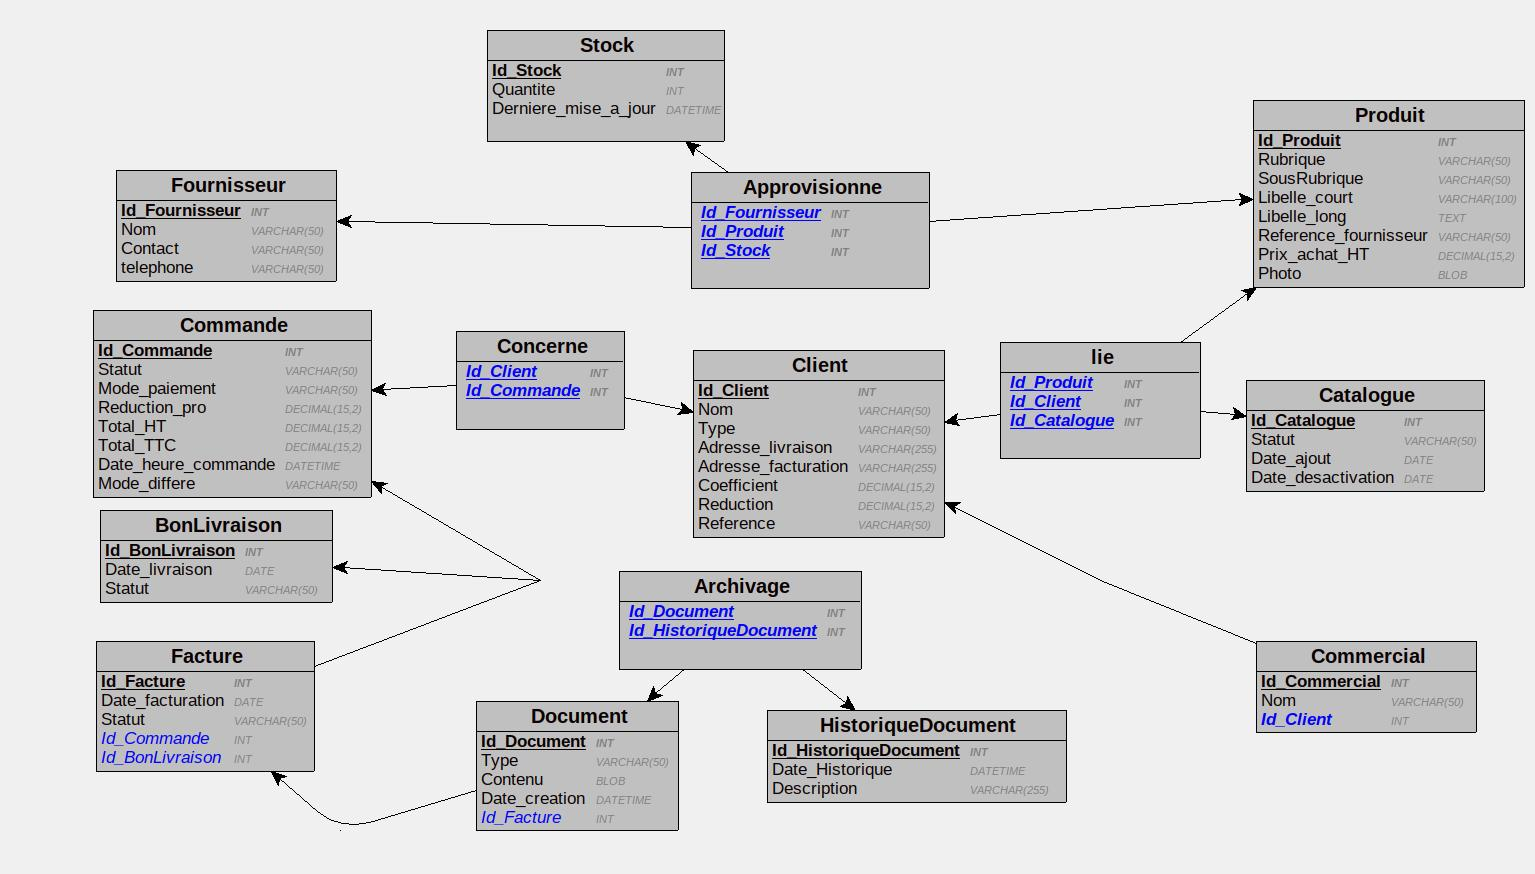
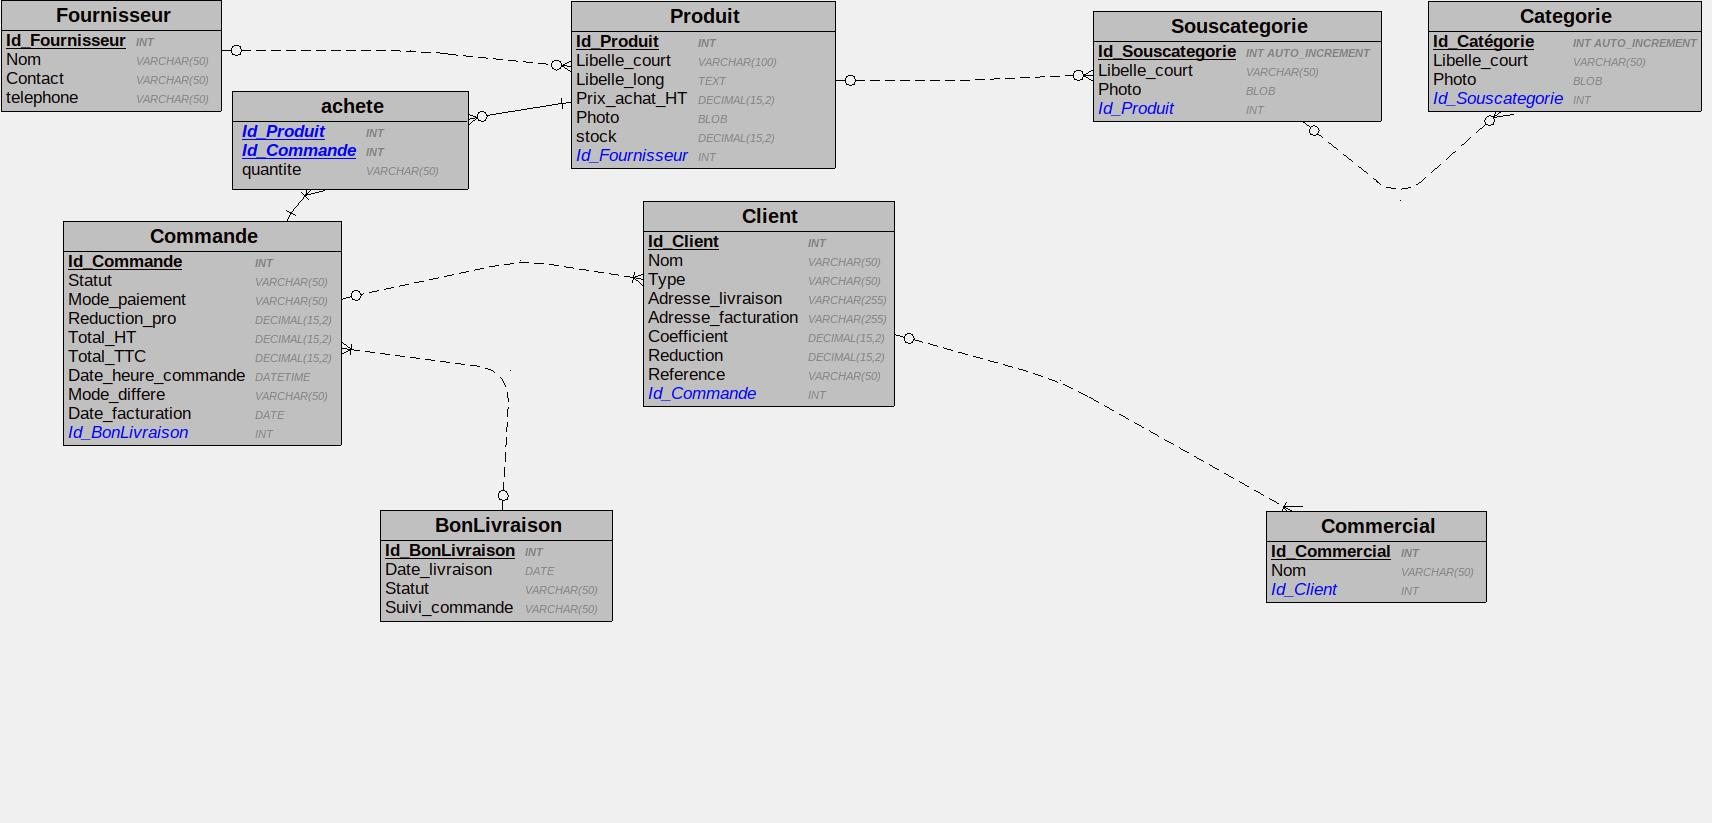
.

diff --git a/FilRouge.md b/FilRouge.md
@@ -1,132 +1,71 @@
 ## Dictionnaire de données
 
-### Table `Fournisseur` :
-- **Id_Fournisseur** : INT (Clé primaire)
-- **Nom** : VARCHAR(50) - Nom du fournisseur
-- **Contact** : VARCHAR(50) - Contact du fournisseur
-- **telephone** : VARCHAR(50) - Numéro de téléphone du fournisseur
+### Table Fournisseur
+- `Id_Fournisseur` (INT) : Identifiant unique du fournisseur (clé primaire).
+- `Nom` (VARCHAR(50)) : Nom du fournisseur.
+- `Contact` (VARCHAR(50)) : Nom du contact chez le fournisseur.
+- `Telephone` (VARCHAR(50)) : Numéro de téléphone du fournisseur.
 
-(Description: Stocke les informations sur les fournisseurs.)
+### Table Produit
+- `Id_Produit` (INT) : Identifiant unique du produit (clé primaire).
+- `Libelle_court` (VARCHAR(100)) : Libellé court du produit.
+- `Libelle_long` (TEXT) : Description détaillée du produit.
+- `Prix_achat_HT` (DECIMAL(15,2)) : Prix d'achat hors taxes du produit.
+- `Photo` (BLOB) : Image représentant le produit.
+- `Stock` (DECIMAL(15,2)) : Quantité en stock du produit.
+- `Id_Fournisseur` (INT) : Identifiant du fournisseur associé (clé étrangère vers la table Fournisseur).
 
-### Table `Produit` :
-- **Id_Produit** : INT (Clé primaire)
-- **Rubrique** : VARCHAR(50) - Rubrique du produit
-- **SousRubrique** : VARCHAR(50) - Sous-rubrique du produit
-- **Libelle_court** : VARCHAR(100) - Libellé court du produit
-- **Libelle_long** : TEXT - Libellé long du produit
-- **Reference_fournisseur** : VARCHAR(50) - Référence du fournisseur pour le produit
-- **Prix_achat_HT** : DECIMAL(15,2) - Prix d'achat hors taxes du produit
-- **Photo** : BLOB - Image du produit
+### Table BonLivraison
+- `Id_BonLivraison` (INT) : Identifiant unique du bon de livraison (clé primaire).
+- `Date_livraison` (DATE) : Date de livraison du bon.
+- `Statut` (VARCHAR(50)) : Statut du bon de livraison.
+- `Suivi_commande` (VARCHAR(50)) : Informations de suivi de la commande associée.
 
-(Description: Stocke les informations sur les produits vendus.)
+### Table Souscategorie
+- `Id_Souscategorie` (INT) : Identifiant unique de la sous-catégorie (clé primaire).
+- `Libelle_court` (VARCHAR(50)) : Libellé court de la sous-catégorie.
+- `Photo` (BLOB) : Image représentant la sous-catégorie.
+- `Id_Produit` (INT) : Identifiant du produit associé (clé étrangère vers la table Produit).
 
-### Table `Client` :
-- **Id_Client** : INT (Clé primaire)
-- **Nom** : VARCHAR(50) - Nom du client
-- **Type** : VARCHAR(50) - Type de client
-- **Adresse_livraison** : VARCHAR(255) - Adresse de livraison du client
-- **Adresse_facturation** : VARCHAR(255) - Adresse de facturation du client
-- **Coefficient** : DECIMAL(15,2) - Coefficient du client
-- **Reduction** : DECIMAL(15,2) - Réduction appliquée au client
-- **Reference** : VARCHAR(50) - Référence du client
+### Table Commande
+- `Id_Commande` (INT) : Identifiant unique de la commande (clé primaire).
+- `Statut` (VARCHAR(50)) : Statut de la commande.
+- `Mode_paiement` (VARCHAR(50)) : Mode de paiement de la commande.
+- `Reduction_pro` (DECIMAL(15,2)) : Réduction appliquée à la commande pour les professionnels.
+- `Total_HT` (DECIMAL(15,2)) : Montant total hors taxes de la commande.
+- `Total_TTC` (DECIMAL(15,2)) : Montant total toutes taxes comprises de la commande.
+- `Date_heure_commande` (DATETIME) : Date et heure de la commande.
+- `Mode_differe` (VARCHAR(50)) : Mode de paiement différé utilisé.
+- `Date_facturation` (DATE) : Date de facturation de la commande.
+- `Id_BonLivraison` (INT) : Identifiant du bon de livraison associé (clé étrangère vers la table BonLivraison).
 
-(Description: Stocke les informations sur les clients.)
+### Table Categorie
+- `Id_Categorie` (INT) : Identifiant unique de la catégorie (clé primaire).
+- `Libelle_court` (VARCHAR(50)) : Libellé court de la catégorie.
+- `Photo` (BLOB) : Image représentant la catégorie.
+- `Id_Souscategorie` (INT) : Identifiant de la sous-catégorie associée (clé étrangère vers la table Souscategorie).
 
-### Table `Commercial` :
-- **Id_Commercial** : INT (Clé primaire)
-- **Nom** : VARCHAR(50) - Nom du commercial
-- **Id_Client** : INT (Clé étrangère) - Identifiant du client lié au commercial
+### Table Client
+- `Id_Client` (INT) : Identifiant unique du client (clé primaire).
+- `Nom` (VARCHAR(50)) : Nom du client.
+- `Type` (VARCHAR(50)) : Type de client (particulier ou professionnel).
+- `Adresse_livraison` (VARCHAR(255)) : Adresse de livraison du client.
+- `Adresse_facturation` (VARCHAR(255)) : Adresse de facturation du client.
+- `Coefficient` (DECIMAL(15,2)) : Coefficient appliqué au prix d'achat en fonction de la catégorie du client.
+- `Reduction` (DECIMAL(15,2)) : Réduction appliquée au total de la commande pour le client.
+- `Reference` (VARCHAR(50)) : Référence unique attribuée au client.
+- `Id_Commande` (INT) : Identifiant de la commande associée (clé étrangère vers la table Commande).
 
-(Description: Stocke les informations sur les commerciaux.)
+### Table Commercial
+- `Id_Commercial` (INT) : Identifiant unique du commercial (clé primaire).
+- `Nom` (VARCHAR(50)) : Nom du commercial.
+- `Id_Client` (INT) : Identifiant du client associé (clé étrangère vers la table Client).
 
-### Table `Commande` :
-- **Id_Commande** : INT (Clé primaire)
-- **Statut** : VARCHAR(50) - Statut de la commande
-- **Mode_paiement** : VARCHAR(50) - Mode de paiement de la commande
-- **Reduction_pro** : DECIMAL(15,2) - Réduction appliquée à la commande
-- **Total_HT** : DECIMAL(15,2) - Total hors taxes de la commande
-- **Total_TTC** : DECIMAL(15,2) - Total toutes taxes comprises de la commande
-- **Date_heure_commande** : DATETIME - Date et heure de la commande
-- **Mode_differe** : VARCHAR(50) - Mode de paiement différé de la commande
+### Table achete
+- `Id_Produit` (INT) : Identifiant du produit acheté (clé étrangère vers la table Produit).
+- `Id_Commande` (INT) : Identifiant de la commande associée (clé étrangère vers la table Commande).
+- `Quantite` (VARCHAR(50)) : Quantité du produit acheté.
 
-(Description: Stocke les informations sur les commandes.)
-
-### Table `BonLivraison` :
-- **Id_BonLivraison** : INT (Clé primaire)
-- **Date_livraison** : DATE - Date de livraison du bon de livraison
-- **Statut** : VARCHAR(50) - Statut du bon de livraison
-
-(Description: Stocke les informations sur les bons de livraison.)
-
-### Table `Facture` :
-- **Id_Facture** : INT (Clé primaire)
-- **Date_facturation** : DATE - Date de facturation de la facture
-- **Statut** : VARCHAR(50) - Statut de la facture
-- **Id_Commande** : INT (Clé étrangère) - Identifiant de la commande liée à la facture
-- **Id_BonLivraison** : INT (Clé étrangère) - Identifiant du bon de livraison lié à la facture
-
-(Description: Stocke les informations sur les factures.)
-
-### Table `Document` :
-- **Id_Document** : INT (Clé primaire)
-- **Type** : VARCHAR(50) - Type de document
-- **Contenu** : BLOB - Contenu du document
-- **Date_creation** : DATETIME - Date de création du document
-- **Id_Facture** : INT (Clé étrangère) - Identifiant de la facture liée au document
-
-(Description: Stocke les informations sur les documents associés aux factures.)
-
-### Table `Stock` :
-- **Id_Stock** : INT (Clé primaire)
-- **Quantite** : INT - Quantité en stock
-- **Derniere_mise_a_jour** : DATETIME - Date de la dernière mise à jour du stock
-
-(Description: Stocke les informations sur les stocks des produits.)
-
-### Table `Catalogue` :
-- **Id_Catalogue** : INT (Clé primaire)
-- **Statut** : VARCHAR(50) - Statut du catalogue
-- **Date_ajout** : DATE - Date d'ajout du catalogue
-- **Date_desactivation** : DATE - Date de désactivation du catalogue
-
-(Description: Stocke les informations sur les catalogues.)
-
-### Table `HistoriqueDocument` :
-- **Id_HistoriqueDocument** : INT (Clé primaire)
-- **Date_Historique** : DATETIME - Date de l'historique du document
-- **Description** : VARCHAR(255) - Description de l'historique du document
-
-(Description: Stocke les informations sur l'historique des documents.)
-
-### Table `Approvisionne` :
-- **Id_Fournisseur** : INT (Clé étrangère) - Identifiant du fournisseur
-- **Id_Produit** : INT (Clé étrangère) - Identifiant du produit
-- **Id_Stock** : INT (Clé étrangère) - Identifiant du stock
-- **PRIMARY KEY** : (Id_Fournisseur, Id_Produit, Id_Stock)
-
-(Description: Stocke les informations sur les produits approvisionnés.)
-
-### Table `Concerne` :
-- **Id_Client** : INT (Clé étrangère) - Identifiant du client
-- **Id_Commande** : INT (Clé étrangère) - Identifiant de la commande
-- **PRIMARY KEY** : (Id_Client, Id_Commande)
-
-(Description: Stocke les informations sur les commandes concernant les clients.)
-
-### Table `lie` :
-- **Id_Produit** : INT (Clé étrangère) - Identifiant du produit
-- **Id_Client** : INT (Clé étrangère) - Identifiant du client
-- **Id_Catalogue** : INT (Clé étrangère) - Identifiant du catalogue
-- **PRIMARY KEY** : (Id_Produit, Id_Client, Id_Catalogue)
-
-(Description: Stocke les informations sur les liaisons entre produits, clients et catalogues.)
-
-### Table `Archivage` :
-- **Id_Document** : INT (Clé étrangère) - Identifiant du document
-- **Id_HistoriqueDocument** : INT (Clé étrangère) - Identifiant de l'historique du document
-- **PRIMARY KEY** : (Id_Document, Id_HistoriqueDocument)
-
-(Description: Stocke les informations sur l'archivage des documents.)
 
 CREATE TABLE Fournisseur(
    Id_Fournisseur INT,
@@ -138,35 +77,31 @@ CREATE TABLE Fournisseur(
 
 CREATE TABLE Produit(
    Id_Produit INT,
-   Rubrique VARCHAR(50) ,
-   SousRubrique VARCHAR(50) ,
    Libelle_court VARCHAR(100) ,
    Libelle_long TEXT,
-   Reference_fournisseur VARCHAR(50) ,
    Prix_achat_HT DECIMAL(15,2)  ,
    Photo BLOB,
-   PRIMARY KEY(Id_Produit)
+   stock DECIMAL(15,2)  ,
+   Id_Fournisseur INT,
+   PRIMARY KEY(Id_Produit),
+   FOREIGN KEY(Id_Fournisseur) REFERENCES Fournisseur(Id_Fournisseur)
 );
 
-CREATE TABLE Client(
-   Id_Client INT,
-   Nom VARCHAR(50) ,
-   Type VARCHAR(50) ,
-   Adresse_livraison VARCHAR(255) ,
-   Adresse_facturation VARCHAR(255) ,
-   Coefficient DECIMAL(15,2)  ,
-   Reduction DECIMAL(15,2)  ,
-   Reference VARCHAR(50) ,
-   PRIMARY KEY(Id_Client)
+CREATE TABLE BonLivraison(
+   Id_BonLivraison INT,
+   Date_livraison DATE,
+   Statut VARCHAR(50) ,
+   Suivi_commande VARCHAR(50) ,
+   PRIMARY KEY(Id_BonLivraison)
 );
 
-CREATE TABLE Commercial(
-   Id_Commercial INT,
-   Nom VARCHAR(50) ,
-   Id_Client INT,
-   PRIMARY KEY(Id_Commercial),
-   UNIQUE(Id_Client),
-   FOREIGN KEY(Id_Client) REFERENCES Client(Id_Client)
+CREATE TABLE Souscategorie(
+   Id_Souscategorie INT AUTO_INCREMENT,
+   Libelle_court VARCHAR(50) ,
+   Photo BLOB,
+   Id_Produit INT,
+   PRIMARY KEY(Id_Souscategorie),
+   FOREIGN KEY(Id_Produit) REFERENCES Produit(Id_Produit)
 );
 
 CREATE TABLE Commande(
@@ -178,93 +113,50 @@ CREATE TABLE Commande(
    Total_TTC DECIMAL(15,2)  ,
    Date_heure_commande DATETIME,
    Mode_differe VARCHAR(50) ,
-   PRIMARY KEY(Id_Commande)
-);
-
-CREATE TABLE BonLivraison(
-   Id_BonLivraison INT,
-   Date_livraison DATE,
-   Statut VARCHAR(50) ,
-   PRIMARY KEY(Id_BonLivraison)
-);
-
-CREATE TABLE Facture(
-   Id_Facture INT,
    Date_facturation DATE,
-   Statut VARCHAR(50) ,
-   Id_Commande INT,
    Id_BonLivraison INT,
-   PRIMARY KEY(Id_Facture),
-   FOREIGN KEY(Id_Commande) REFERENCES Commande(Id_Commande),
+   PRIMARY KEY(Id_Commande),
    FOREIGN KEY(Id_BonLivraison) REFERENCES BonLivraison(Id_BonLivraison)
 );
 
-CREATE TABLE Document(
-   Id_Document INT,
-   Type VARCHAR(50) ,
-   Contenu BLOB,
-   Date_creation DATETIME,
-   Id_Facture INT,
-   PRIMARY KEY(Id_Document),
-   FOREIGN KEY(Id_Facture) REFERENCES Facture(Id_Facture)
+CREATE TABLE Categorie(
+   Id_Catégorie INT AUTO_INCREMENT,
+   Libelle_court VARCHAR(50) ,
+   Photo BLOB,
+   Id_Souscategorie INT,
+   PRIMARY KEY(Id_Catégorie),
+   FOREIGN KEY(Id_Souscategorie) REFERENCES Souscategorie(Id_Souscategorie)
 );
 
-CREATE TABLE Stock(
-   Id_Stock INT,
-   Quantite INT,
-   Derniere_mise_a_jour DATETIME,
-   PRIMARY KEY(Id_Stock)
-);
-
-CREATE TABLE Catalogue(
-   Id_Catalogue INT,
-   Statut VARCHAR(50) ,
-   Date_ajout DATE,
-   Date_desactivation DATE,
-   PRIMARY KEY(Id_Catalogue)
-);
-
-CREATE TABLE HistoriqueDocument(
-   Id_HistoriqueDocument INT,
-   Date_Historique DATETIME,
-   Description VARCHAR(255) ,
-   PRIMARY KEY(Id_HistoriqueDocument)
-);
-
-CREATE TABLE Approvisionne(
-   Id_Fournisseur INT,
-   Id_Produit INT,
-   Id_Stock INT,
-   PRIMARY KEY(Id_Fournisseur, Id_Produit, Id_Stock),
-   FOREIGN KEY(Id_Fournisseur) REFERENCES Fournisseur(Id_Fournisseur),
-   FOREIGN KEY(Id_Produit) REFERENCES Produit(Id_Produit),
-   FOREIGN KEY(Id_Stock) REFERENCES Stock(Id_Stock)
-);
-
-CREATE TABLE Concerne(
+CREATE TABLE Client(
    Id_Client INT,
+   Nom VARCHAR(50) ,
+   Type VARCHAR(50) ,
+   Adresse_livraison VARCHAR(255) ,
+   Adresse_facturation VARCHAR(255) ,
+   Coefficient DECIMAL(15,2)  ,
+   Reduction DECIMAL(15,2)  ,
+   Reference VARCHAR(50) ,
    Id_Commande INT,
-   PRIMARY KEY(Id_Client, Id_Commande),
-   FOREIGN KEY(Id_Client) REFERENCES Client(Id_Client),
+   PRIMARY KEY(Id_Client),
    FOREIGN KEY(Id_Commande) REFERENCES Commande(Id_Commande)
 );
 
-CREATE TABLE lie(
-   Id_Produit INT,
+CREATE TABLE Commercial(
+   Id_Commercial INT,
+   Nom VARCHAR(50) ,
    Id_Client INT,
-   Id_Catalogue INT,
-   PRIMARY KEY(Id_Produit, Id_Client, Id_Catalogue),
-   FOREIGN KEY(Id_Produit) REFERENCES Produit(Id_Produit),
-   FOREIGN KEY(Id_Client) REFERENCES Client(Id_Client),
-   FOREIGN KEY(Id_Catalogue) REFERENCES Catalogue(Id_Catalogue)
+   PRIMARY KEY(Id_Commercial),
+   FOREIGN KEY(Id_Client) REFERENCES Client(Id_Client)
 );
 
-CREATE TABLE Archivage(
-   Id_Document INT,
-   Id_HistoriqueDocument INT,
-   PRIMARY KEY(Id_Document, Id_HistoriqueDocument),
-   FOREIGN KEY(Id_Document) REFERENCES Document(Id_Document),
-   FOREIGN KEY(Id_HistoriqueDocument) REFERENCES HistoriqueDocument(Id_HistoriqueDocument)
+CREATE TABLE achete(
+   Id_Produit INT,
+   Id_Commande INT,
+   quantite VARCHAR(50) ,
+   PRIMARY KEY(Id_Produit, Id_Commande),
+   FOREIGN KEY(Id_Produit) REFERENCES Produit(Id_Produit),
+   FOREIGN KEY(Id_Commande) REFERENCES Commande(Id_Commande)
 );
 
 
